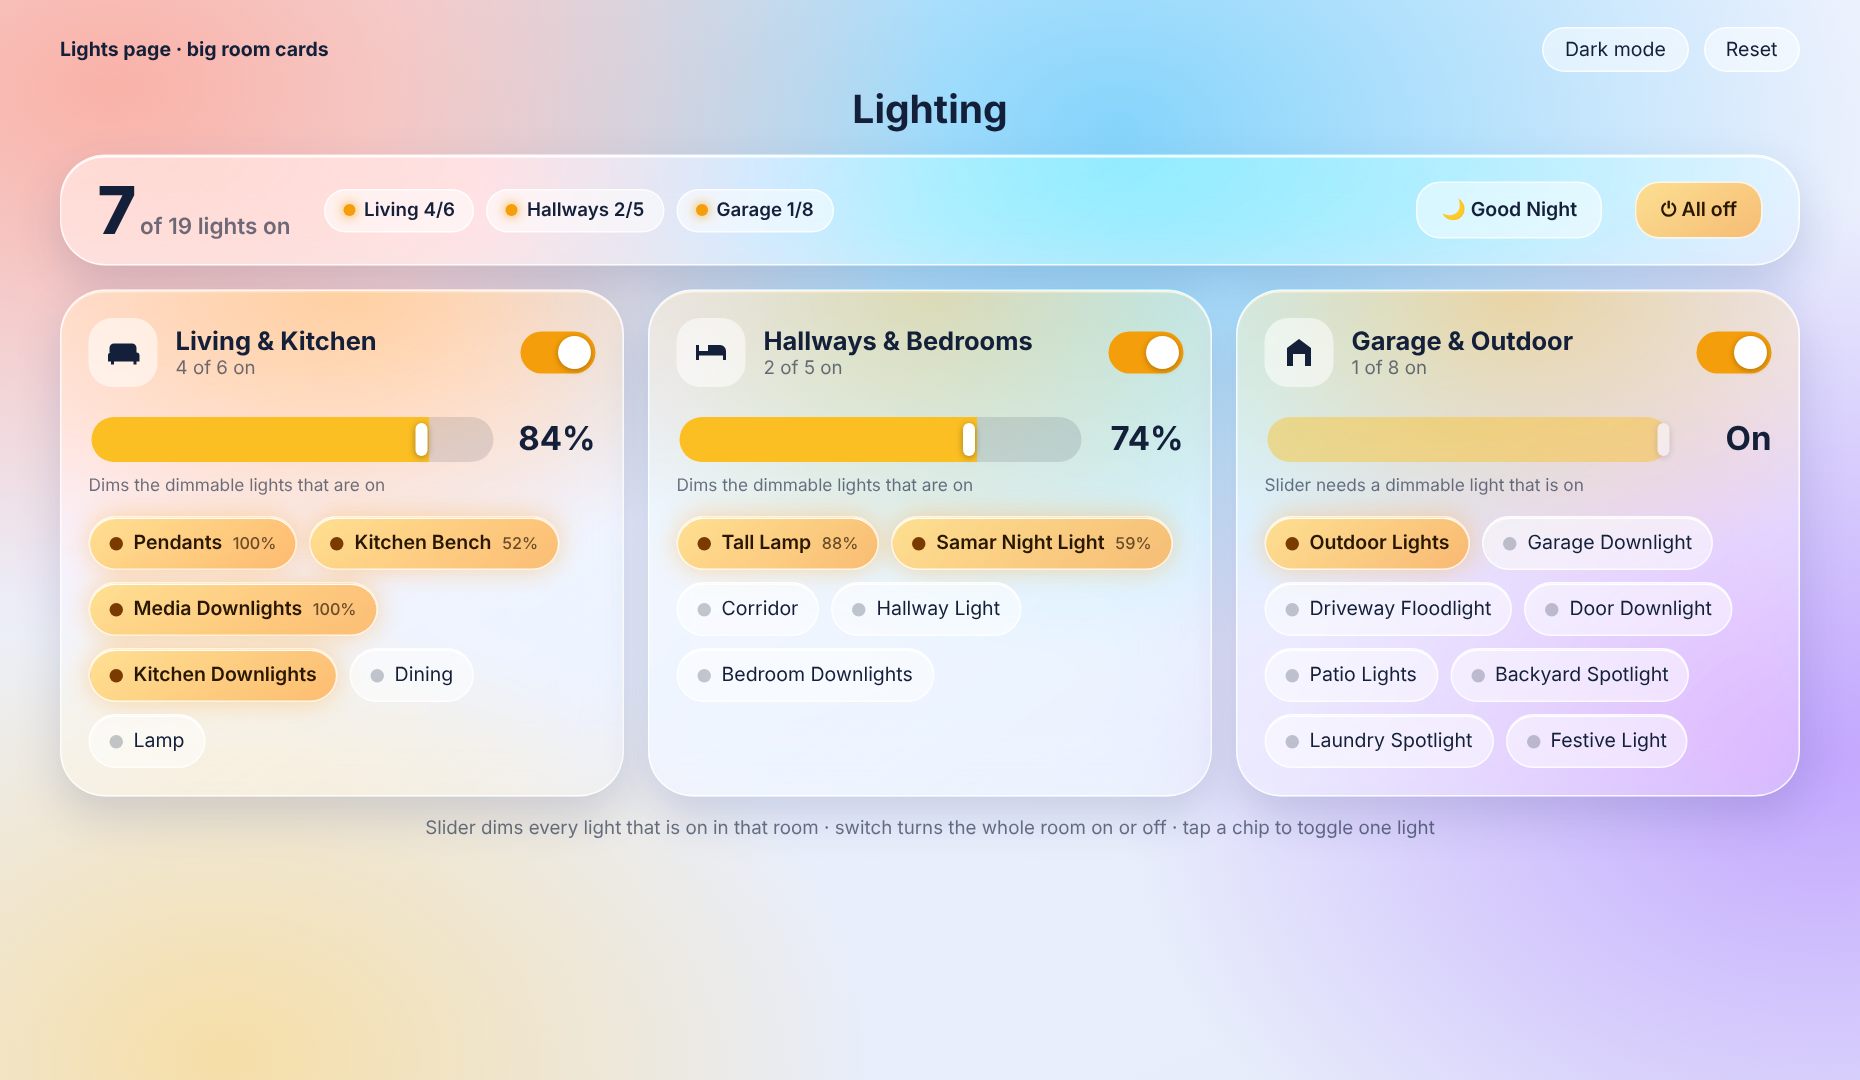
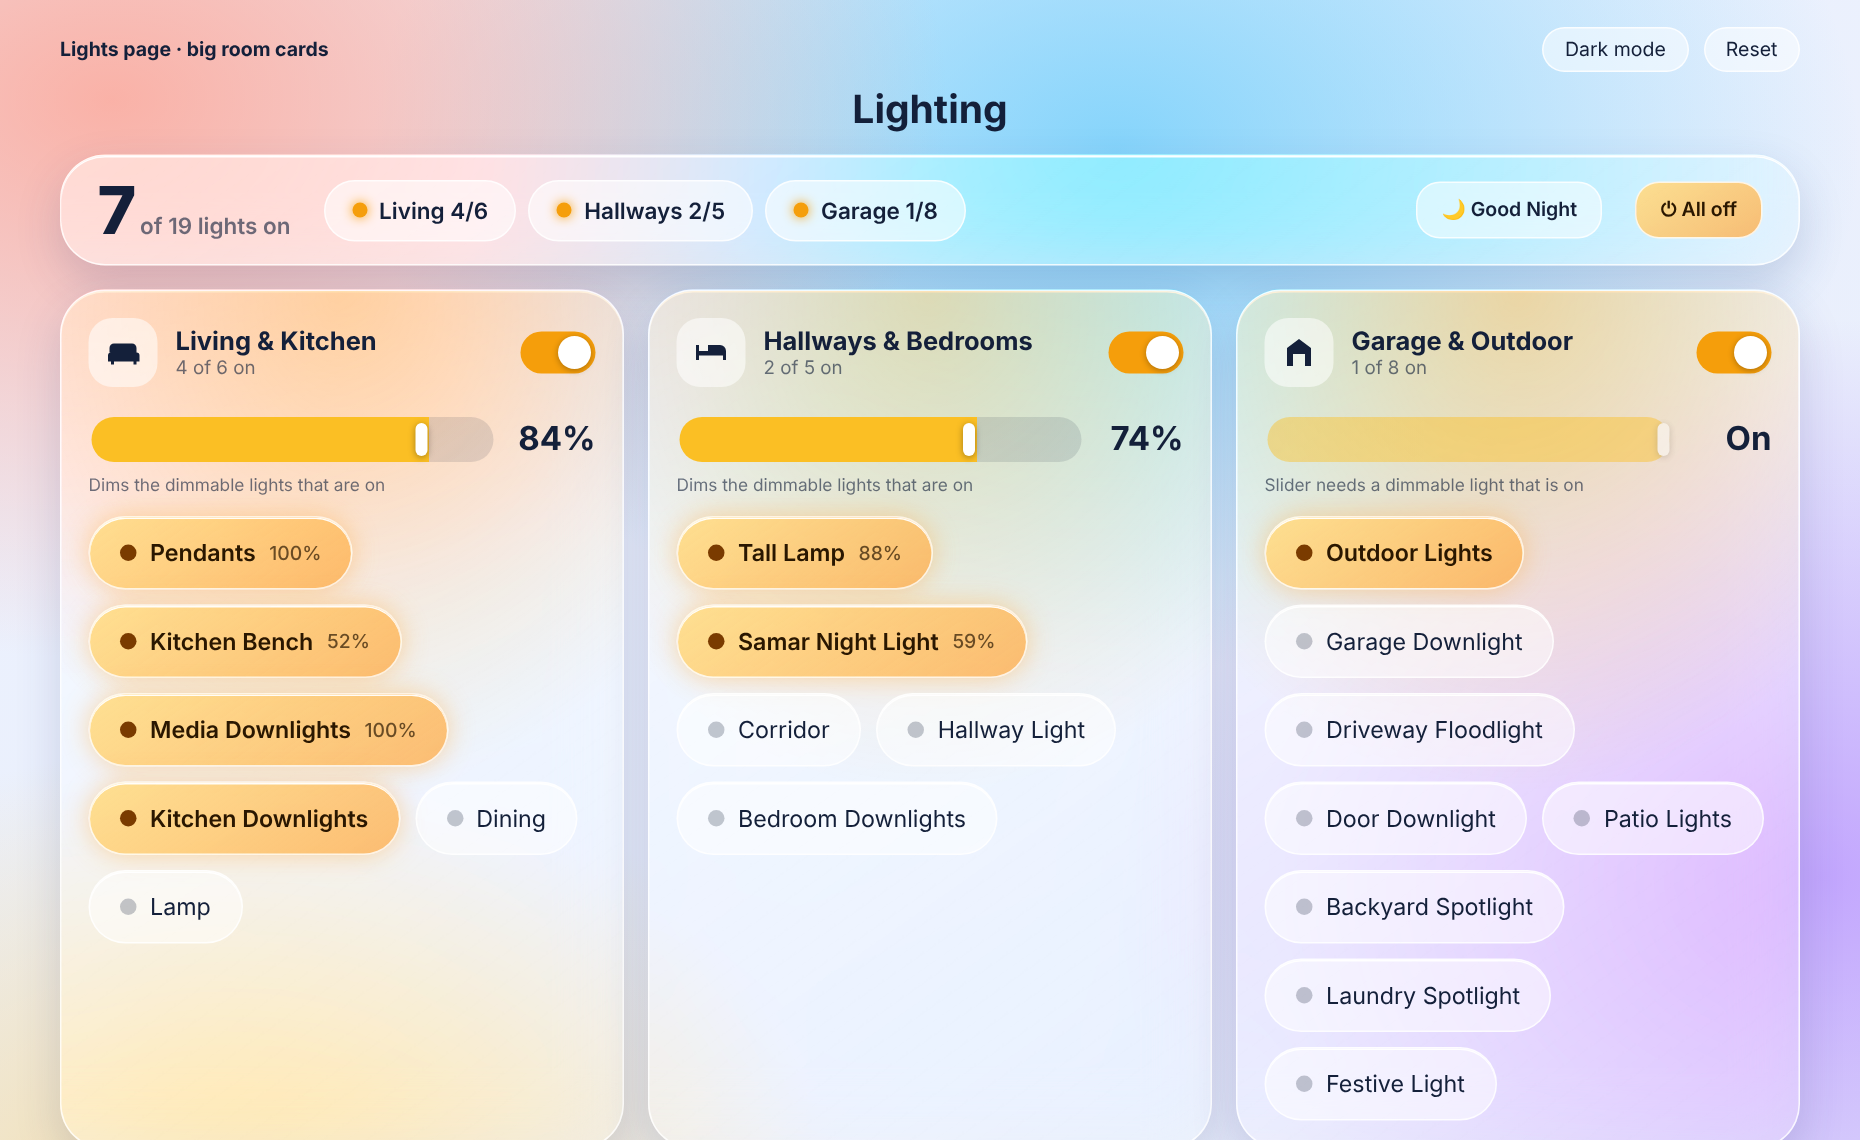
Room cards mock-up: larger pills
Claude-Session: https://claude.ai/code/session_017384jG7ZBJ818z6DGMDYZc

diff --git a/dashboards/lights-room-cards.html b/dashboards/lights-room-cards.html
@@ -8,7 +8,7 @@ body.dark{--tx:#fff;--tx2:rgba(255,255,255,.62);--bg:radial-gradient(900px 600px
 .g{background:var(--glass);border:1px solid var(--bd);border-radius:30px;backdrop-filter:blur(20px) saturate(190%);box-shadow:inset 0 1px 0 var(--hi),0 12px 30px rgba(50,60,120,.18)}
 .sum{display:flex;align-items:center;gap:22px;padding:14px 24px;margin-bottom:16px;flex-wrap:wrap}
 .sum .n{font-size:44px;font-weight:800;letter-spacing:-.03em;line-height:1}.sum .n small{font-size:15px;font-weight:600;color:var(--tx2);letter-spacing:0}
-.pills{display:flex;gap:8px;flex-wrap:wrap}.pill{padding:6px 12px;border-radius:99px;background:var(--field);border:1px solid var(--bd);font-size:12.5px;font-weight:600;display:flex;gap:6px;align-items:center}.pill i{width:8px;height:8px;border-radius:50%;background:var(--tx2);opacity:.45}.pill.l i{background:#f59e0b;opacity:1;box-shadow:0 0 8px #f59e0b}
+.pills{display:flex;gap:8px;flex-wrap:wrap}.pill{padding:10px 18px;border-radius:99px;background:var(--field);border:1px solid var(--bd);font-size:15px;font-weight:600;display:flex;gap:8px;align-items:center}.pill i{width:10px;height:10px;border-radius:50%;background:var(--tx2);opacity:.45}.pill.l i{background:#f59e0b;opacity:1;box-shadow:0 0 8px #f59e0b}
 .sp{flex:1}.btn{border:1px solid var(--bd);background:var(--soft);color:var(--tx);border-radius:16px;padding:10px 16px;font:600 13px Roboto,system-ui;cursor:pointer}.btn.hot{background:linear-gradient(145deg,rgba(255,222,140,.95),rgba(255,170,70,.75));color:#2a1700}
 .rooms{display:grid;grid-template-columns:repeat(3,1fr);gap:16px}
 .room{padding:18px;position:relative;overflow:hidden;transition:background .4s}
@@ -21,8 +21,8 @@ input[type=range]{-webkit-appearance:none;appearance:none;flex:1;height:30px;bor
 input[type=range]::-webkit-slider-thumb{-webkit-appearance:none;width:8px;height:22px;border-radius:4px;background:#fff;box-shadow:0 1px 5px rgba(0,0,0,.35);margin:0}
 input[type=range]:disabled{opacity:.45;cursor:default}
 .hint{font-size:11.5px;color:var(--tx2);margin:0 0 14px 0}
-.chips{display:flex;flex-wrap:wrap;gap:8px}.c{display:flex;gap:7px;align-items:center;padding:9px 13px;border-radius:99px;background:var(--soft);border:1px solid var(--bd);font-size:13px;cursor:pointer;user-select:none;box-shadow:inset 0 1px 0 var(--hi);transition:.2s}
-.c i{width:9px;height:9px;border-radius:50%;background:var(--tx2);opacity:.4;flex:none}
+.chips{display:flex;flex-wrap:wrap;gap:10px}.c{display:flex;gap:9px;align-items:center;padding:14px 20px;border-radius:99px;background:var(--soft);border:1px solid var(--bd);font-size:15.5px;cursor:pointer;user-select:none;box-shadow:inset 0 1px 0 var(--hi);transition:.2s}
+.c i{width:11px;height:11px;border-radius:50%;background:var(--tx2);opacity:.4;flex:none}
 .c.on{background:linear-gradient(145deg,rgba(255,222,140,.95),rgba(255,170,70,.75));color:#2a1700;font-weight:600;box-shadow:0 0 18px rgba(255,170,60,.45),inset 0 1px 0 var(--hi)}.c.on i{background:#7a3b00;opacity:1}
 .c small{opacity:.7;font-weight:500}
 .note{text-align:center;font-size:12.5px;color:var(--tx2);margin-top:14px}
